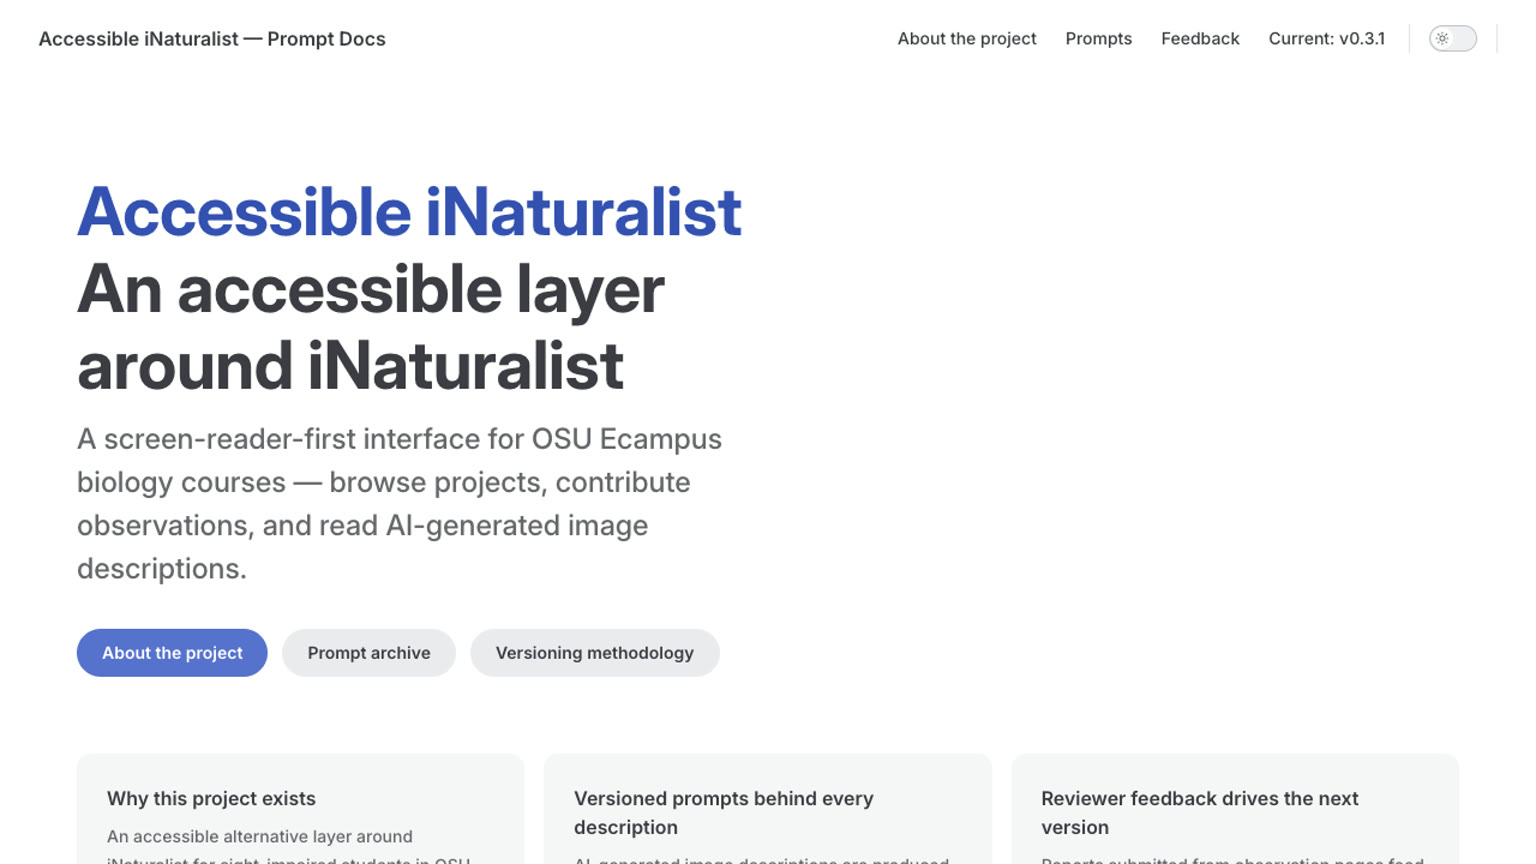
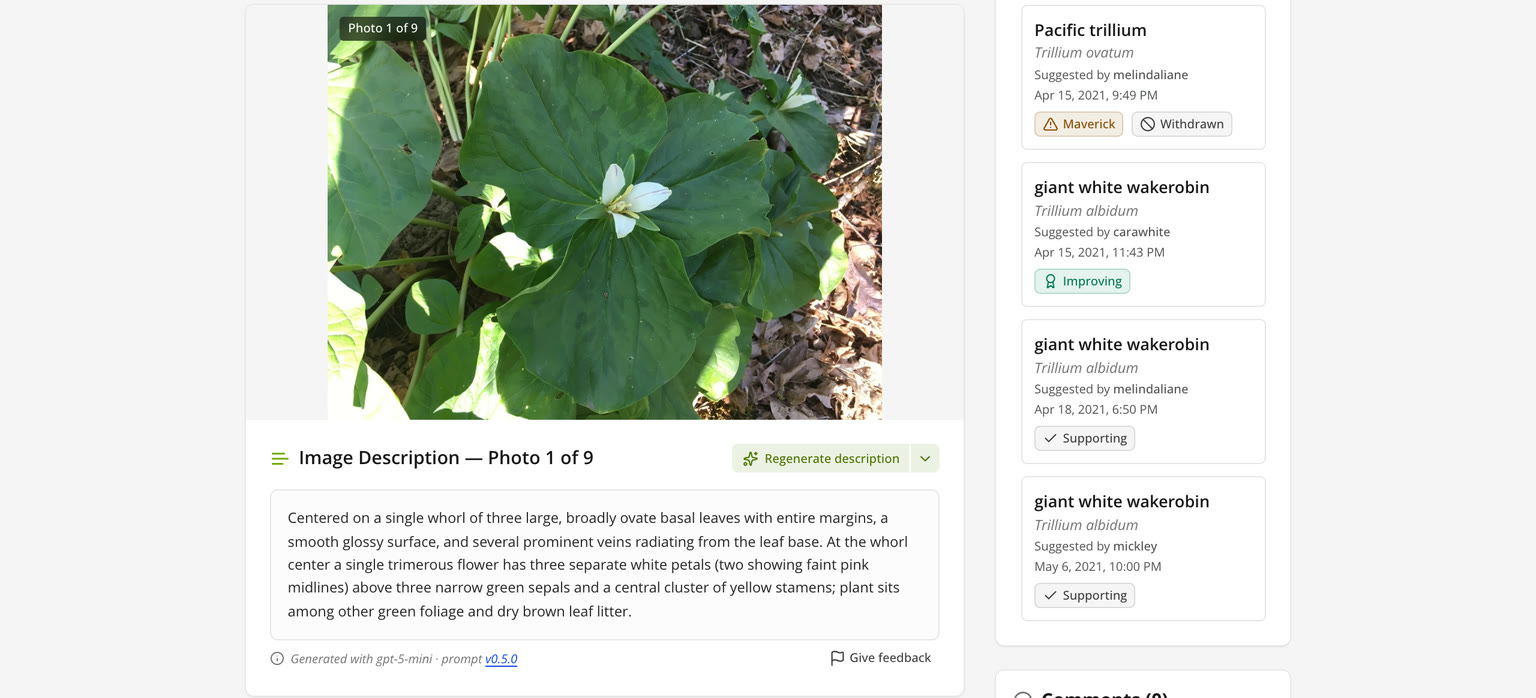
feat: add BIS 471/571 projects and refresh screenshots
Add Orbital Data Centers, Server Virtualization and Packet Routing with
demo links. Retake the iNaturalist, neurodevelopment and PC lab shots at
the card's 2.2:1 ratio, point the PC lab at its BIS 471/571 demo, and
sort projects within a release year by ship date.

diff --git a/app/components/content/Works.vue b/app/components/content/Works.vue
@@ -2,7 +2,7 @@
 import type { Project } from '~/types/Project'
 
 const { data: projects } = await useAsyncData('works-projects', () =>
-  queryCollection('projects').order('release', 'DESC').all(),
+  queryCollection('projects').order('release', 'DESC').order('date', 'DESC').all(),
 )
 </script>
 

diff --git a/content.config.ts b/content.config.ts
@@ -5,6 +5,8 @@ const projectSchema = z.object({
   id: z.string(),
   anchor: z.string().optional(),
   release: z.string(),
+  // Latest ship date (YYYY-MM-DD); breaks ties within a release year
+  date: z.string().optional(),
   image: z.string(),
   description: z.string(),
   role: z.string(),

diff --git a/app/components/home/Projects.vue b/app/components/home/Projects.vue
@@ -1,6 +1,6 @@
 <script setup lang="ts">
 const { data: projects } = await useAsyncData('home-projects', () =>
-  queryCollection('projects').order('release', 'DESC').all(),
+  queryCollection('projects').order('release', 'DESC').order('date', 'DESC').all(),
 )
 </script>
 

diff --git a/content/en/projects/cs312-pc-assembly.md b/content/en/projects/cs312-pc-assembly.md
@@ -3,10 +3,12 @@ name: PC Disassembly Lab
 id: cs312-pc-assembly
 anchor: cs312-pc-assembly
 release: 2026
+date: 2026-11-06
 image: /projects/cs312-pc-assembly.jpg
+link: https://demo.oregonstate.education/bis-471-571-pc-assembly/
 layout: project
 featured: true
 tags: ["Three.js", "TypeScript", "Vue.js", "Accessibility"]
 role: "Lead Developer"
-description: A guided CS 312 lab for learning desktop PC disassembly and reassembly online. The project combines a realistic 3D hardware model with ordered procedures, orientation checks, error feedback, keyboard navigation, and a screen-reader-first task flow for students who cannot rely on visual manipulation alone.
+description: A guided lab, built for CS 312 and adapted for BIS 471/571, for learning desktop PC disassembly and reassembly online. The project combines a realistic 3D hardware model with ordered procedures, orientation checks, error feedback, keyboard navigation, and a screen-reader-first task flow for students who cannot rely on visual manipulation alone.
 ---

diff --git a/content/en/projects/bis-orbital-data-centers.md b/content/en/projects/bis-orbital-data-centers.md
@@ -1,0 +1,14 @@
+---
+name: Orbital Data Centers
+id: bis-orbital-data-centers
+anchor: bis-orbital-data-centers
+release: 2026
+date: 2026-11-11
+image: /projects/bis-orbital-data-centers.jpg
+link: https://demo.oregonstate.education/bis-471-571-orbital-data-centers/
+layout: project
+featured: true
+tags: ["Three.js", "Vue.js", "Nuxt UI", "Accessibility"]
+role: "Lead Developer"
+description: A BIS 471/571 activity set in a 3D model of the space around Earth. Students compare low and geosynchronous orbits drawn to scale, build a satellite network to cover the globe, and follow a NASA-tracked piece of debris back to the ground. Then they run a fleet of orbiting data centers through solar storms and debris strikes and scale it to a million satellites.
+---

diff --git a/content/en/projects/bis-server-virtualization.md b/content/en/projects/bis-server-virtualization.md
@@ -1,0 +1,14 @@
+---
+name: Server Virtualization
+id: bis-server-virtualization
+anchor: bis-server-virtualization
+release: 2026
+date: 2026-11-11
+image: /projects/bis-server-virtualization.jpg
+link: https://demo.oregonstate.education/bis-471-571-server-virtualization/
+layout: project
+featured: true
+tags: ["Three.js", "Vue.js", "Nuxt UI", "Accessibility"]
+role: "Lead Developer"
+description: A BIS 471/571 walk through a small 3D data center. Students consolidate idle servers onto one host, open it to see how the hypervisor divides processors and memory between virtual machines, compare hypervisor types, move a running VM between hosts, and break a host to see what fails. Every scene is also written out in text for screen reader users.
+---

diff --git a/content/en/projects/bis-packet-routing.md b/content/en/projects/bis-packet-routing.md
@@ -1,0 +1,14 @@
+---
+name: Packet Routing
+id: bis-packet-routing
+anchor: bis-packet-routing
+release: 2026
+date: 2026-11-07
+image: /projects/bis-packet-routing.jpg
+link: https://demo.oregonstate.education/bis-471-571-packet-routing/
+layout: project
+featured: true
+tags: ["Three.js", "Vue.js", "Nuxt UI", "Accessibility"]
+role: "Lead Developer"
+description: A BIS 471/571 activity that follows a packet across a 3D network of routers. At each hop the router's table opens and the matching row lights up; then a link fails and students watch the packet take the backup route. A final chapter maps real traceroutes from Oregon, an undersea cable to Japan, and the cables that pass through the Strait of Hormuz.
+---

diff --git a/content/en/projects/bb363-neurodevelopment.md b/content/en/projects/bb363-neurodevelopment.md
@@ -3,7 +3,9 @@ name: Neurodevelopment 3D Sim
 id: bb363-neurodevelopment
 anchor: bb363-neurodevelopment
 release: 2026
+date: 2026-10-06
 image: /projects/bb363-neurodevelopment.jpg
+link: https://demo.oregonstate.education/bb-363-neurodevelopment-sim/
 layout: project
 featured: true
 tags: ["Three.js", "Blender", "Vue.js", "Nuxt UI"]

diff --git a/content/en/projects/es260-map-suite.md b/content/en/projects/es260-map-suite.md
@@ -3,6 +3,7 @@ name: Pacific Islands Map Suite
 id: es260-map-suite
 anchor: es260-map-suite
 release: 2026
+date: 2026-10-06
 image: /projects/es260-map-suite.jpg
 link: https://demo.oregonstate.education/es-260-our-sea-of-islands-map/#/
 layout: project

diff --git a/content/en/projects/accessible-inaturalist.md b/content/en/projects/accessible-inaturalist.md
@@ -3,6 +3,7 @@ name: Accessible iNaturalist
 id: accessible-inaturalist
 anchor: accessible-inaturalist
 release: 2026
+date: 2026-11-10
 image: /projects/accessible-inaturalist.jpg
 layout: project
 featured: true
